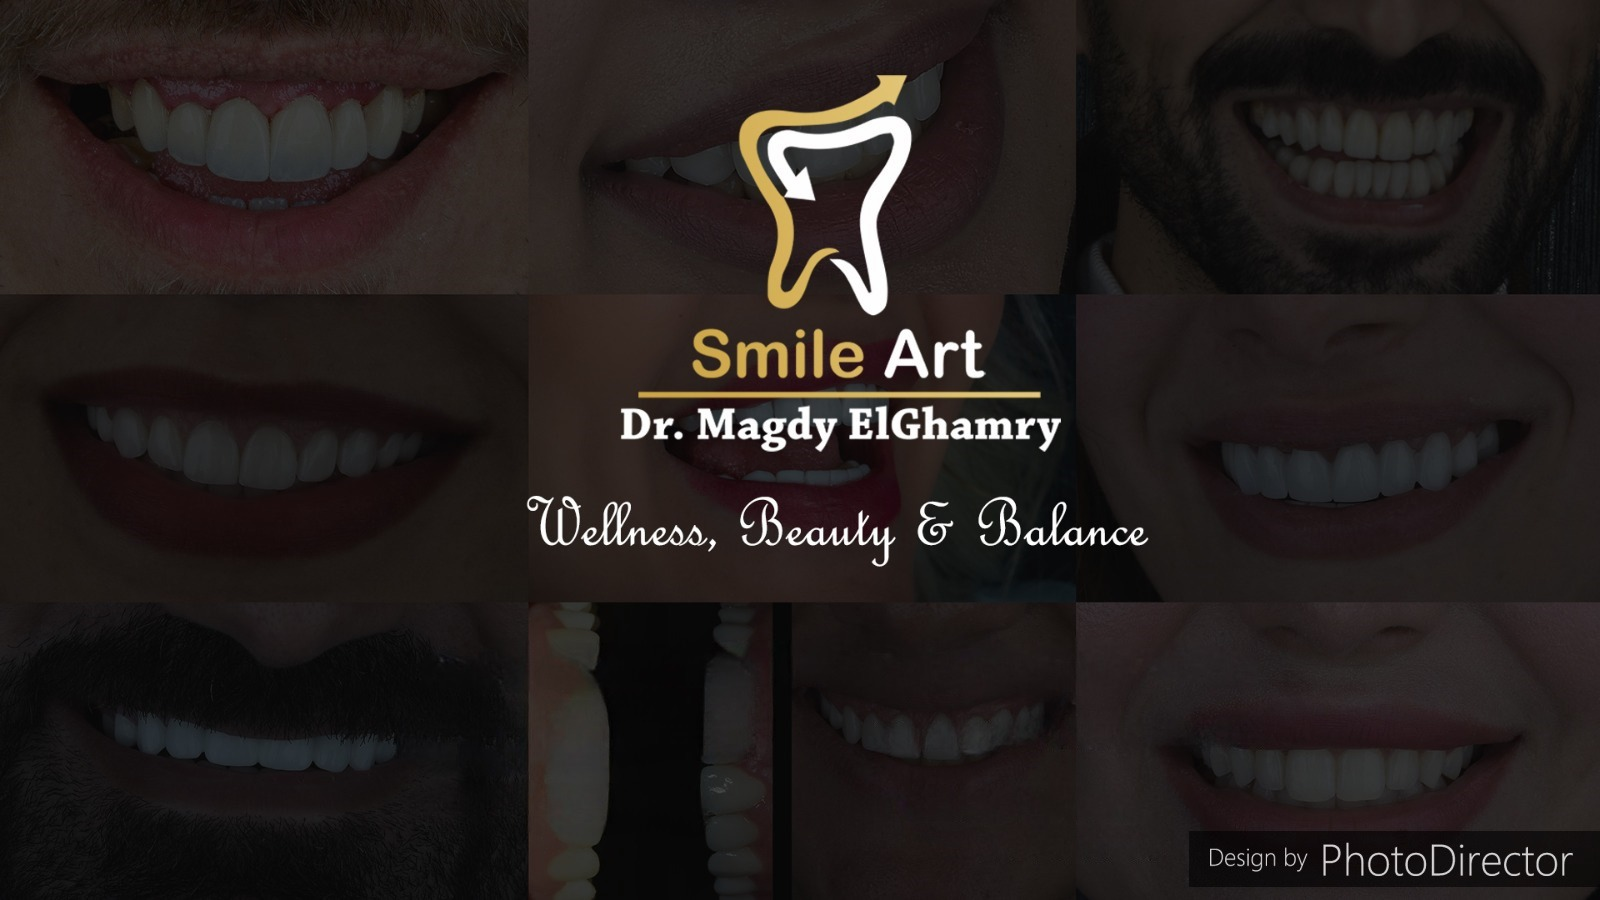
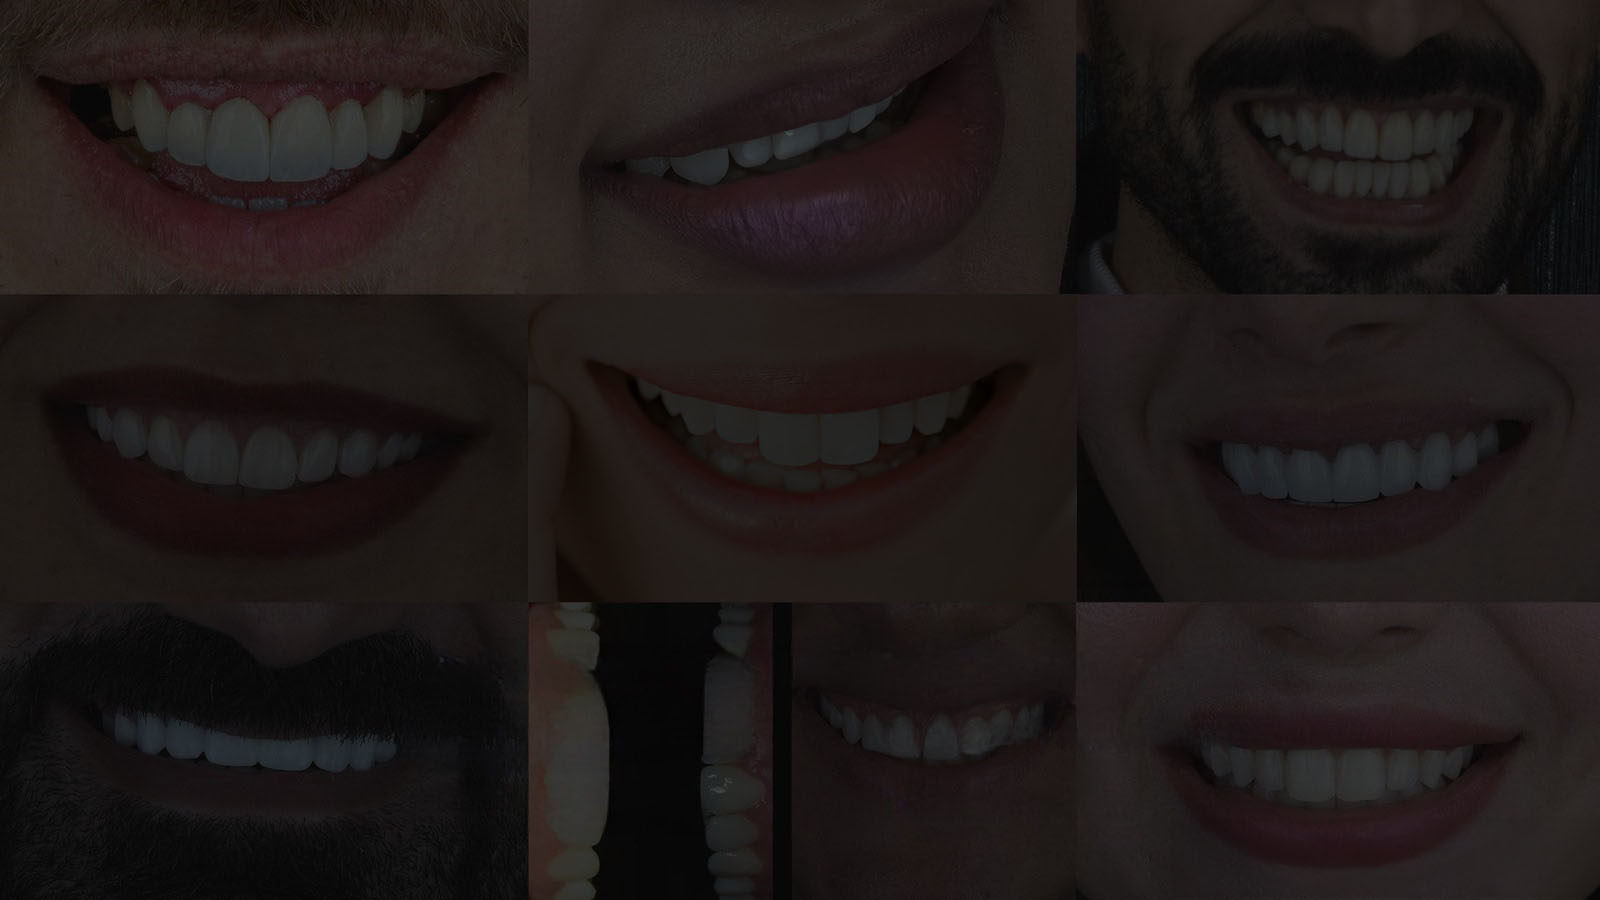
add keywords

Changed region(s): [[0.3125, 0.3422, 0.7188, 0.6533], [0.4375, 0.0622, 0.5938, 0.3422], [0.75, 0.9022, 1.0, 0.9956]]

diff --git a/pages/_document.jsx b/pages/_document.jsx
@@ -6,63 +6,7 @@ import { Html, Head, Main, NextScript } from "next/document";
 const Document = (props) => {
   return (
     <Html>
-      <Head>
-        <title>SmileArt</title>
-        <meta
-          name="description"
-          content="Al Ola Business Services is a full-service provider for information management, specializing in large scale document scanning and conversion services. We have provided professional digitization services for the top companies in Egypt"
-        />
-
-        <link rel="shortcut icon" href="logo.png" type="image/x-icon" />
-
-        <link rel="canonical" href="http://www.smileart-eg.com/" />
-
-        <meta property="og:type" content="Website" />
-        <meta property="og:title" content="" />
-        <meta property="og:description" content="" />
-        <meta property="og:url" content="http://www.smileart-eg.com/" />
-        <meta
-          property="og:site_name"
-          content="Arabesque Decoration Contracting LLC."
-        />
-        <meta property="og:updated_time" content="2019-02-15T15:35:35+00:00" />
-        <meta
-          property="og:image"
-          content="http://alola-eg.com/_code_/media/website_image.png"
-        />
-        <meta
-          property="og:image:secure_url"
-          content="http://alola-eg.com/_code_/media/website_image.png"
-        />
-
-        <meta name="geo.region" content="EGYPT-CAIRO" />
-        <meta name="geo.placename" content="Cairo" />
-        <meta name="geo.position" content="30.0705616,31.3360852" />
-        <meta name="ICBM" content="30.0705616,31.3360852" />
-
-        <meta property="article:tag" content="Smile Art" />
-        <meta property="article:section" content="Engineering" />
-        <meta
-          property="article:published_time"
-          content="2019-03-06T16:31:08+00:00"
-        />
-        <meta
-          property="article:modified_time"
-          content="2019-07-15T15:35:35+00:00"
-        />
-
-        <meta name="twitter:card" content="summary" />
-        <meta name="twitter:title" content="Smile Art Modern Systems Inc" />
-        <meta
-          name="twitter:description"
-          content="Al Ola Business Services is a full-service provider for information management, specializing in large scale document scanning and conversion services. We have provided professional digitization services for the top companies in Egypt"
-        />
-        <meta name="twitter:url" content="http://www.smileart-eg.com/" />
-        <meta
-          name="twitter:image"
-          content="http://alola-eg.com/_code_/media/website_image.png"
-        />
-      </Head>
+      <Head></Head>
       <body>
         <Main />
         <NextScript />

diff --git a/components/Meta.jsx b/components/Meta.jsx
@@ -1,0 +1,58 @@
+import Head from "next/head";
+
+export default function Meta({ title, description, keywords, url, image }) {
+  return (
+    <Head>
+      <title>{title}</title>
+      <meta name="description" content={description} />
+      <meta name="keywords" content={keywords} />
+
+      <link rel="canonical" href={url} />
+      <link rel="shortcut icon" href="/favicon.ico" />
+      <link rel="icon" sizes="192x192" href="/favicon.ico"></link>
+      <link rel="apple-touch-icon" href="/favicon.ico" />
+
+      <meta property="og:type" content="website" />
+      <meta property="og:title" content={title} />
+      <meta property="og:description" content={description} />
+      <meta property="og:url" content={url} />
+      <meta property="og:site_name" content={title} />
+      <meta property="og:updated_time" content="2022-01-01T15:35:35+00:00" />
+      <meta property="og:image" content={image} />
+      <meta property="og:image:secure_url" content={image} />
+
+      <meta name="geo.region" content="Egypt-Cairo" />
+      <meta name="geo.placename" content="Cairo" />
+      <meta name="geo.position" content="30.044257, 31.235731" />
+      <meta name="ICBM" content="30.044257, 31.235731" />
+      <meta property="fb:app_id" content="545580463107292" />
+
+      <meta property="article:tag" content={title} />
+      <meta property="article:section" content="Website" />
+      <meta
+        property="article:published_time"
+        content="2022-01-01T16:31:08+00:00"
+      />
+      <meta
+        property="article:modified_time"
+        content="2022-01-01T15:35:35+00:00"
+      />
+
+      <meta name="twitter:card" content="summary" />
+      <meta name="twitter:title" content={title} />
+      <meta name="twitter:description" content={description} />
+      <meta name="twitter:url" content={url} />
+      <meta name="twitter:image" content={image} />
+
+      <meta name="p:domain_verify" content="06bdd24d4cf0c2f6be2c290323047818" />
+    </Head>
+  );
+}
+
+Meta.defaultProps = {
+  title: "",
+  description: "",
+  keywords: "",
+  url: "https://www.smileart-eg.com/",
+  image: "https://api.smileart-eg.com//v1/media/website-image.jpg",
+};

diff --git a/pages/index.jsx b/pages/index.jsx
@@ -11,6 +11,7 @@ import {
   Contact,
   Reviews,
   Articles,
+  Meta,
 } from "@sa/components";
 import { useDispatch, useSelector } from "react-redux";
 import { setLang } from "@sa/redux/lang";
@@ -19,14 +20,11 @@ import { setConfigs } from "@sa/redux/configs";
 import { Fab, Action } from "react-tiny-fab";
 import "react-tiny-fab/dist/styles.css";
 
-const Main = () => {
+const Main = ({ configs }) => {
   const { t, i18n } = useTranslation();
   const lang = useSelector((state) => state.lang.value);
-  const configs = useSelector((state) => state.configs.value);
-  const [categories, setCategories] = useState([]);
-  const [articles, setArticles] = useState([]);
-  const [categoryId, setCategoryId] = useState(0);
   const dispatch = useDispatch();
+  dispatch(setConfigs(configs));
   const getLang = () => {
     let lang = localStorage.getItem("lang");
     if (lang) {
@@ -44,12 +42,6 @@ const Main = () => {
       localStorage.setItem("lang", "en");
     }
     dispatch(setLang(lang ? lang : "en"));
-  };
-
-  const getConfigs = () => {
-    get("/configs").then((res) => {
-      dispatch(setConfigs(res?.data[0]));
-    });
   };
 
   const social = [
@@ -75,11 +67,11 @@ const Main = () => {
 
   useEffect(() => {
     getLang();
-    getConfigs();
   }, []);
 
   return (
     <div className="body-content">
+      <Meta keywords={configs?.keywords} />
       {typeof window === "object" && (
         <Fab
           mainButtonStyles={{
@@ -117,10 +109,8 @@ const Main = () => {
           ))}
         </Fab>
       )}
-
       <SocialContacts />
       <Header />
-
       <Services />
       <Articles />
       <Team />
@@ -133,3 +123,14 @@ const Main = () => {
 };
 
 export default Main;
+
+export const getServerSideProps = async (context) => {
+
+  let configs = await get("/configs").then((res) => res?.data);
+
+  return {
+    props: {
+      configs: configs?.[0],
+    },
+  };
+};

diff --git a/pages/article/[id].jsx b/pages/article/[id].jsx
@@ -21,15 +21,14 @@ import "react-quill/dist/quill.snow.css";
 
 import styles from "@sa/styles/components/Article.module.scss";
 
-const Article = () => {
+const Article = ({ configs }) => {
   const { t, i18n } = useTranslation();
   const dispatch = useDispatch();
+  dispatch(setConfigs(configs));
   const lang = useSelector((state) => state.lang.value);
-  const [articles, setArticles] = useState([]);
   const [article, setArticle] = useState(null);
   const [categoryId, setCategoryId] = useState(0);
   const [categories, setCategories] = useState([]);
-
 
   const getLang = () => {
     let lang = localStorage.getItem("lang");
@@ -65,18 +64,10 @@ const Article = () => {
     });
   };
 
-
-  const getConfigs = () => {
-    get("/configs").then((res) => {
-      dispatch(setConfigs(res?.data[0]));
-    });
-  };
-
   useEffect(() => {
     getLang();
     getArticle();
     getCategories();
-    getConfigs();
   }, []);
 
   const modules = {
@@ -103,7 +94,6 @@ const Article = () => {
     "direction",
     "color",
   ];
-
 
   return (
     <div className="body-content">
@@ -153,3 +143,13 @@ const Article = () => {
 };
 
 export default Article;
+
+export const getServerSideProps = async (context) => {
+  let configs = await get("/configs").then((res) => res?.data);
+
+  return {
+    props: {
+      configs: configs?.[0],
+    },
+  };
+};

diff --git a/components/Carousal.jsx b/components/Carousal.jsx
@@ -1,6 +1,8 @@
 /* eslint-disable @next/next/no-img-element */
 import React, { useState, useEffect } from "react";
 import { Swiper } from "swiper/react";
+import { Autoplay, Pagination, Navigation } from "swiper";
+
 import "swiper/css";
 import "swiper/swiper.min.css";
 
@@ -17,10 +19,6 @@ const Carousal = ({ children, swiperOptions }) => {
 
   swiperOptions = swiperOptions ?? {
     spaceBetween: 5,
-    navigation: true,
-    pagination: { clickable: true },
-    autoplay: true,
-
     breakpoints: {
       1500: {
         slidesPerView: 4,
@@ -41,7 +39,18 @@ const Carousal = ({ children, swiperOptions }) => {
     },
   };
   return (
-    <Swiper {...swiperOptions}>
+    <Swiper
+      {...swiperOptions}
+      autoplay={{
+        delay: 2500,
+        disableOnInteraction: false,
+      }}
+      pagination={{
+        clickable: true,
+      }}
+      navigation={true}
+      modules={[Autoplay, Pagination, Navigation]}
+    >
       {children}
     </Swiper>
   );

diff --git a/components/index.jsx b/components/index.jsx
@@ -20,3 +20,4 @@ export { default as ArticlesCategories } from "./ArticlesCategories";
 export { default as ArticleMenu } from "./ArticleMenu";
 export { default as Carousal } from "./Carousal";
 export { default as Reservation } from "./Reservation";
+export { default as Meta } from "./Meta";

diff --git a/styles/globals.scss b/styles/globals.scss
@@ -1074,7 +1074,7 @@ section {
   // background: linear-gradient(to right, #d2ac52, #e8ce82);
 
   &::after {
-    background: rgba(0, 0, 0, 0.5);
+    background: rgba(0, 0, 0, 0.2);
     content: '';
     width: 100%;
     height: 100%;
